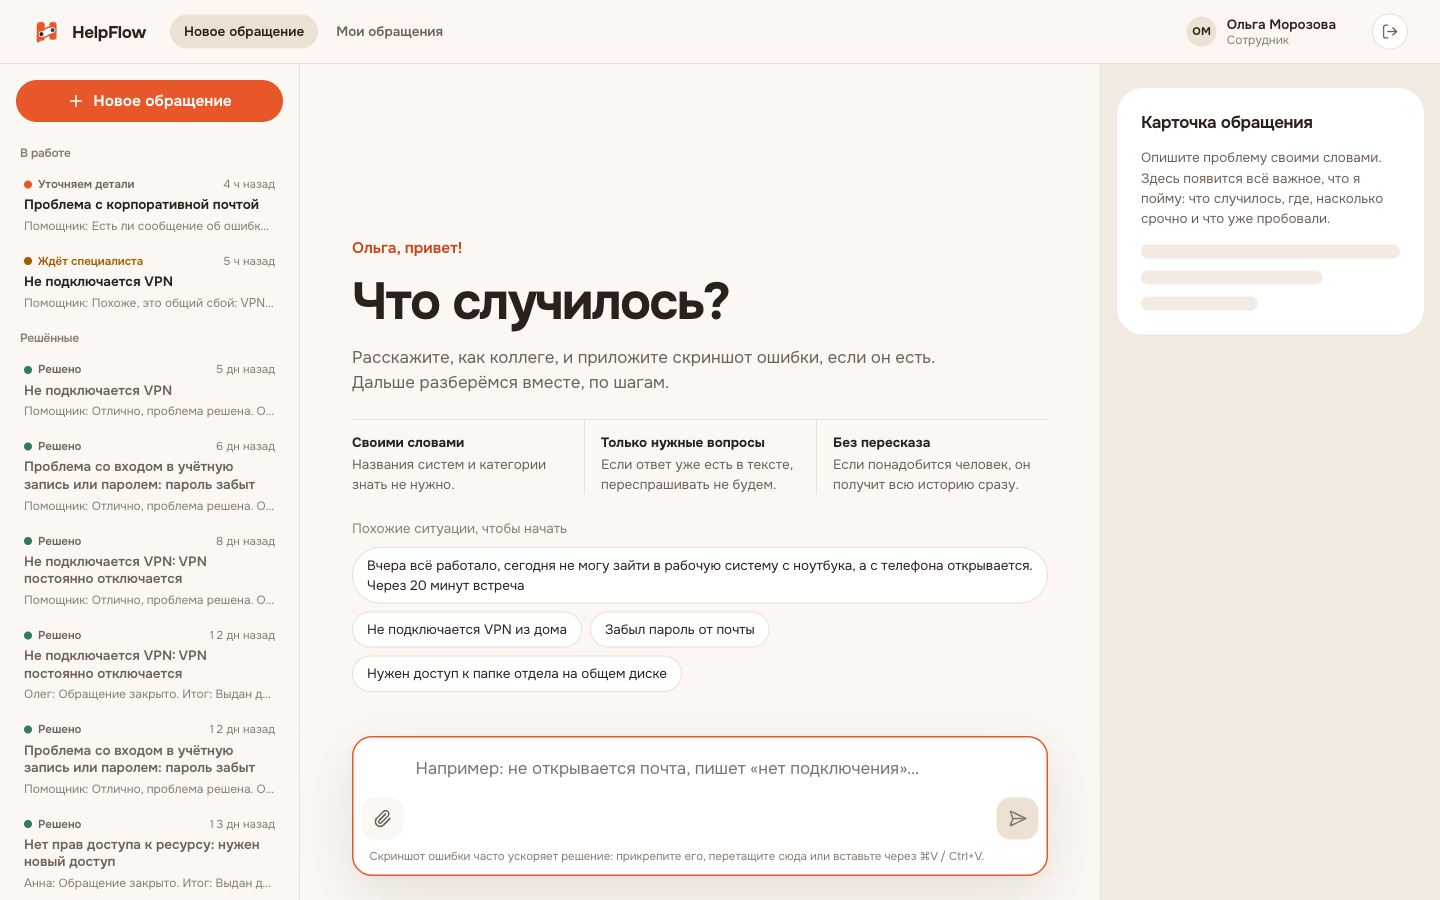
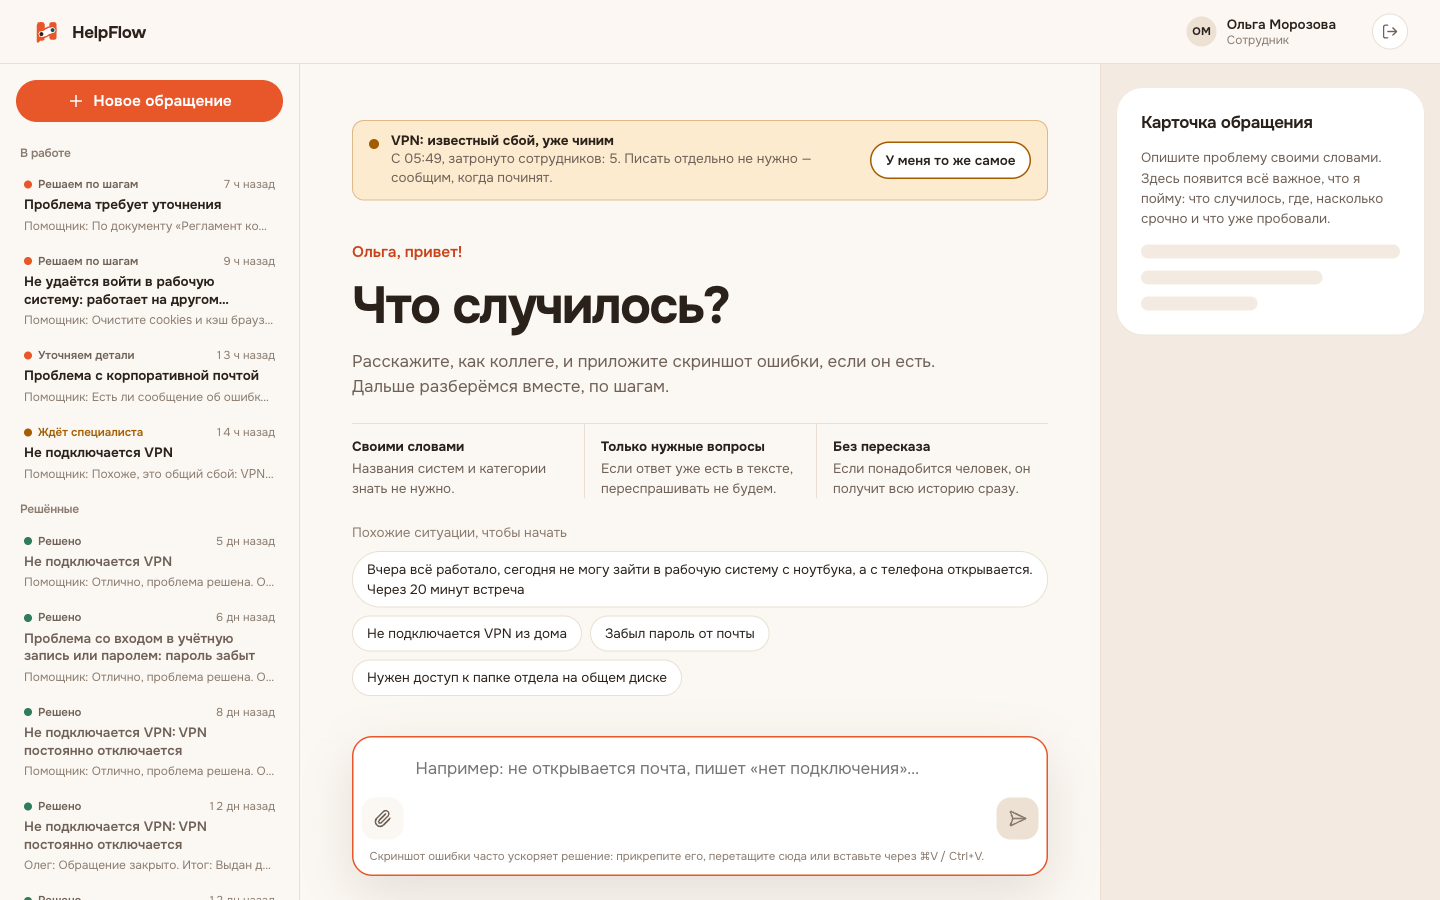
fix: the case example records «на телефоне работает»; document answers get a plain prompt
«С телефона CRM открывается» — a word between the device and the verb no
longer hides the fact (never with «не» / «тоже»). Under a document answer the
message box says «Или напишите своими словами…».

diff --git a/apps/web/src/features/conversation/ConversationPage.tsx b/apps/web/src/features/conversation/ConversationPage.tsx
@@ -166,7 +166,9 @@ export function ConversationPage({ onActivity }: { onActivity?: (conversation: C
                 tone={live ? "human" : "assistant"}
                 label={c ? "Ваше сообщение" : "Опишите проблему"}
                 size={c ? "regular" : "large"}
-                placeholder={c ? COMPOSER_PLACEHOLDER[c.status] : "Например: не открывается почта, пишет «нет подключения»…"}
+                placeholder={c ? (c.status === "TROUBLESHOOTING" && c.answer_kind === "document"
+                  ? "Или напишите своими словами…"
+                  : COMPOSER_PLACEHOLDER[c.status]) : "Например: не открывается почта, пишет «нет подключения»…"}
                 allowFiles
                 dropTarget={chatRef}
                 autoFocus={!c}

diff --git a/services/ai/helpflow_ai/rules.py b/services/ai/helpflow_ai/rules.py
@@ -309,8 +309,9 @@ def detect_urgency(text: str, playbook: Playbook) -> tuple[Urgency, str]:
 _FACT_PATTERNS: list[tuple[str, str, str]] = [
     # (fact, value, regex over normalized text); first match per fact wins
     ("other_device_works", "yes",
-     r"(с|на|через) (телефон|смартфон|мобильн|друг\w* (компьютер|ноутбук|устройств))\w*,? "
-     r"(все |всё )?(работает|норм|открывается|заходит|пускает|ок)"),
+     # Up to two words may sit in between («с телефона CRM открывается»), but never «не».
+     r"(с|на|через) (телефон|смартфон|мобильн|друг\w* (компьютер|ноутбук|устройств))\w*,?"
+     r"(?: (?!не\b|тоже\b)[\w-]+){0,2},? (все |всё )?(работает|норм\w*|открывается|заходит|пускает|ок)"),
     ("since_when", "вчера работало, сегодня нет", r"вчера (все |всё )?работал\w*"),
     ("since_when", "с сегодняшнего дня", r"с утра|сегодня"),
     ("recurring", "yes", r"\b(опять|снова|в который раз|уже не первый раз)\b"),

diff --git a/services/ai/tests/test_understanding.py b/services/ai/tests/test_understanding.py
@@ -46,3 +46,14 @@ def test_request_with_typos_is_classified_like_the_clean_one(kb):
     clean = rules.classify("Вчера всё работало, сегодня не могу зайти в систему с ноутбука, а с телефона открывается", kb.playbooks)
     typos = rules.classify("Вчера всё ранботало, сигодня не могу зайти в систему с ноутбука, а с телефона открыватся", kb.playbooks)
     assert typos.playbook_id == clean.playbook_id == "crm_login_device_specific"
+
+
+@pytest.mark.parametrize("text, expected", [
+    ("С телефона CRM открывается, с ноутбука нет", "yes"),
+    ("с телефона всё работает", "yes"),
+    ("через телефон битрикс нормально открывается", "yes"),
+    ("с телефона не открывается", None),
+    ("с телефона тоже не работает", None),
+])
+def test_other_device_works_is_found_with_a_word_in_between(text, expected):
+    assert rules.extract_facts(text).get("other_device_works") == expected
